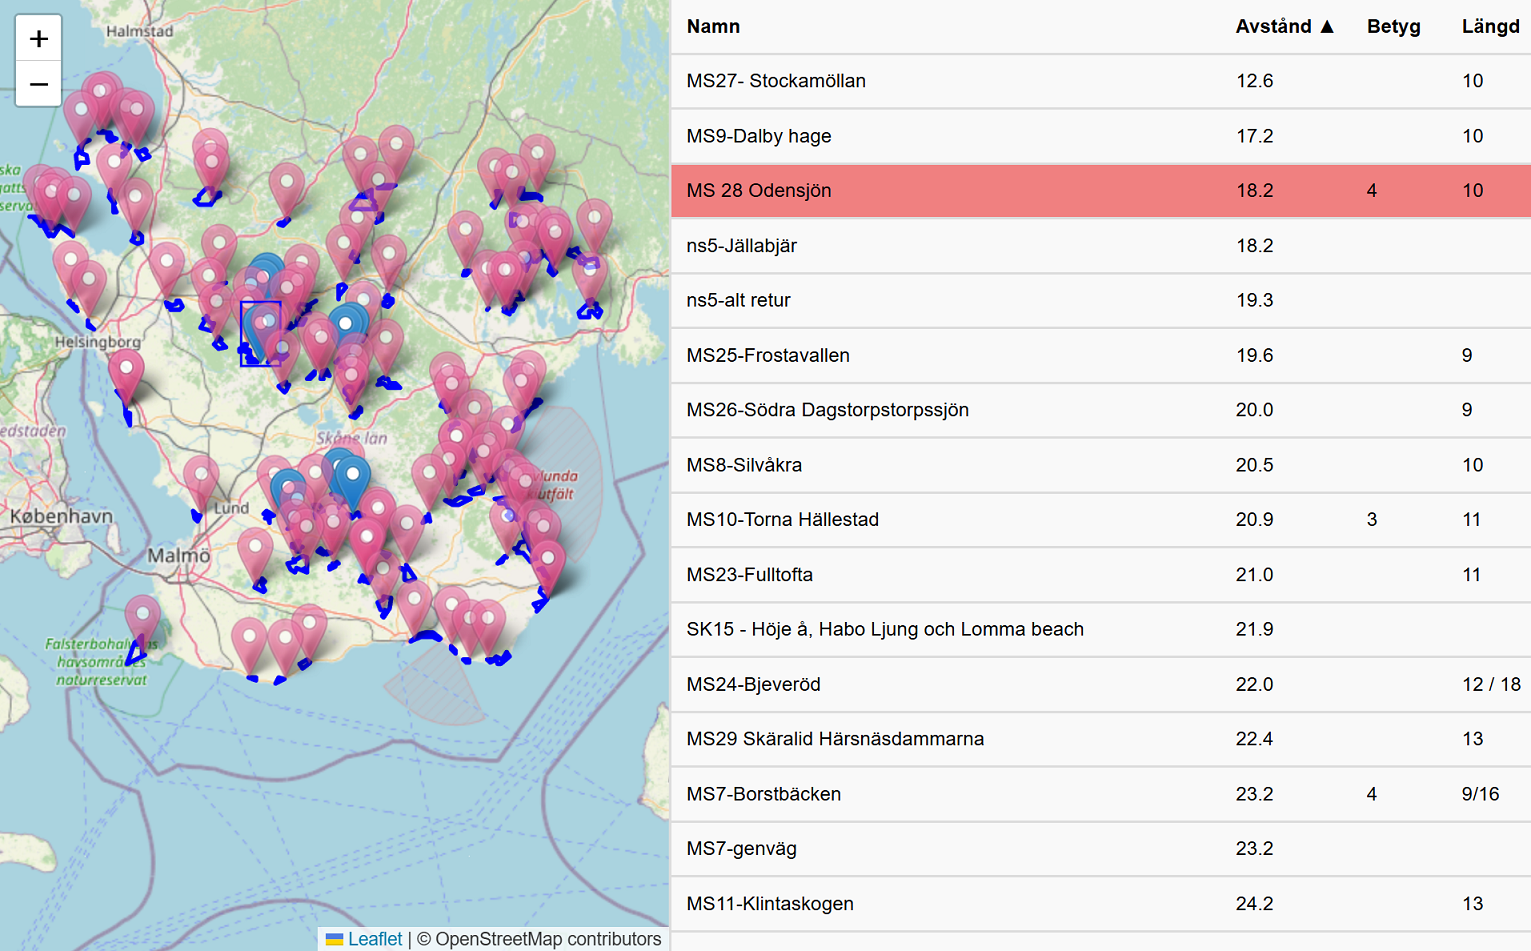
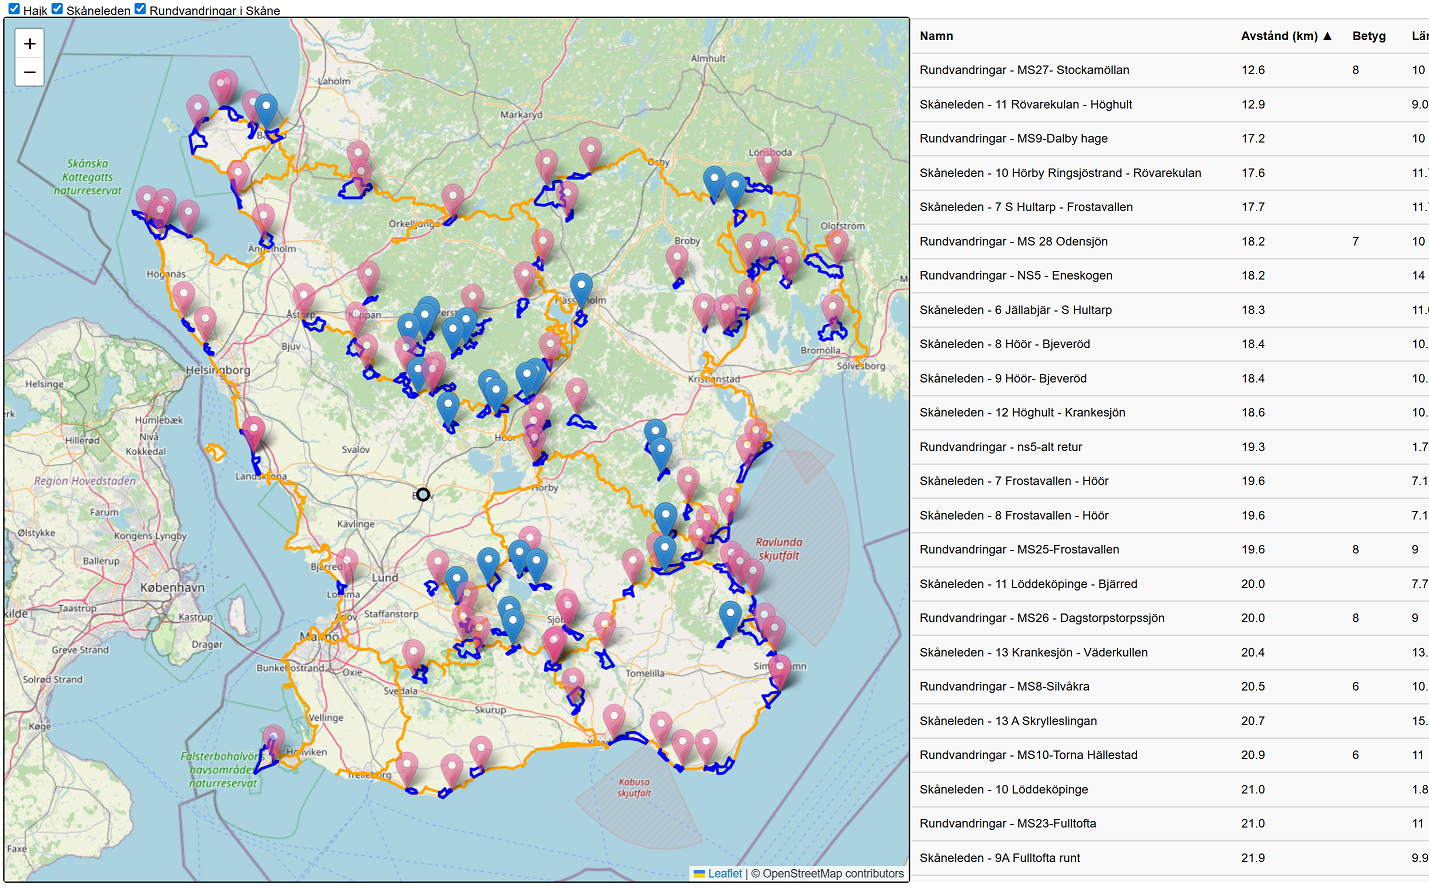
Minor stuff

diff --git a/webroot/edit.html b/webroot/edit.html
@@ -35,7 +35,7 @@
 <body onload="setup_edit()">
     <table id="edit_table">
         <tr>
-            <td>Namn</td><td>:</td><td><input type="text" id="h_name"></td>
+            <td>Namn</td><td>:</td><td><input type="text" id="h_name" size="60"></td>
         </tr><tr>
             <td>Google Maps</td><td>:</td><td id="h_map_link"></td>
         </tr><tr>

diff --git a/README.md b/README.md
@@ -93,13 +93,14 @@ It is updated by invoking `server.php`.
 ## GPX structure
 * The GPX files should use `trk` as the means of defining the hikes (i.e. not using `rte` or `wpt`).  
 * Each track should have a name defined in the trk/name element. 
-* If the trk has the (optional) href attribute, the link is displayed when showing the details of the hike.
+* If the trk has the (optional) link element, the link is displayed when showing the details of the hike.
 
 Example:
 ``` xml
 <gpx>
-    <trk href="https://example.com/hike1">
+    <trk>
         <name>Hike 1</name>
+        <link href="https://example.com/hike1" />
         <trkseg>
             <trkpt lat="55.70584" lon="13.19321"></trkpt>
             <trkpt lat="55.70600" lon="13.19400"></trkpt>
